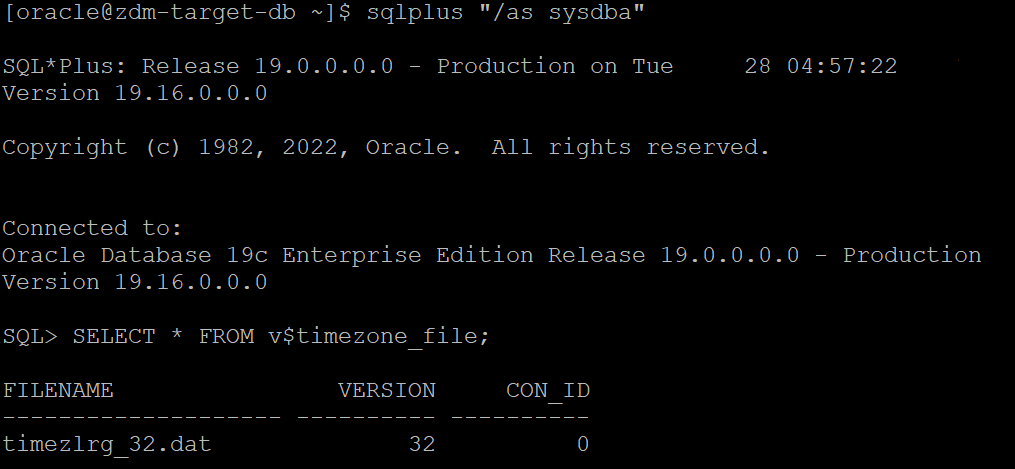
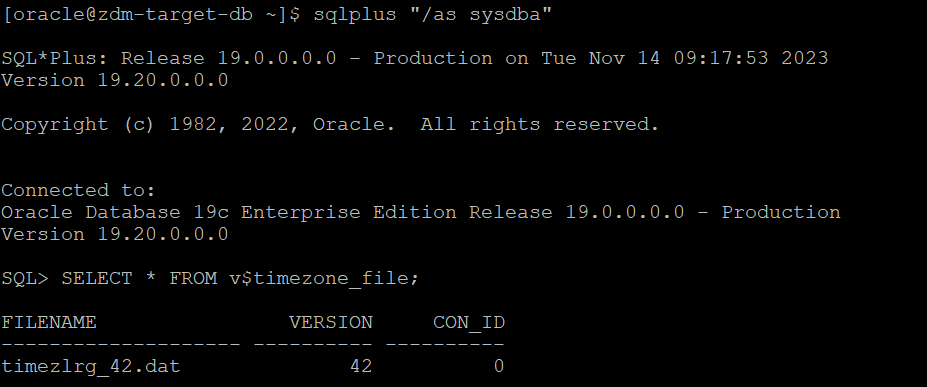
prepare-target

diff --git a/zdm-physical-offline/prepare-target-db/prepare-target-db.md b/zdm-physical-offline/prepare-target-db/prepare-target-db.md
@@ -101,7 +101,7 @@ In this lab
 
    For e.g
 
-   The source and Target database timezone are 32 in the above sample output, which means no further action is to be taken.
+   The Target database timezone is 42 in this example which is greater then the source timezone version of 32 , which means no further action is to be taken.
    
    If the target timezone version is lower than the source database, follow the below document to do the timezone upgrade for an Oracle 19c target database.
 
@@ -217,5 +217,5 @@ You may now **proceed to the next lab**.
 
 ## Acknowledgements
 * **Author** - Amalraj Puthenchira, Data Management Modernise Specialist, EMEA Technology Engineering
-* **Last Updated By/Date** - Amalraj Puthenchira, August 2023
+* **Last Updated By/Date** - Amalraj Puthenchira, November 2023
 
